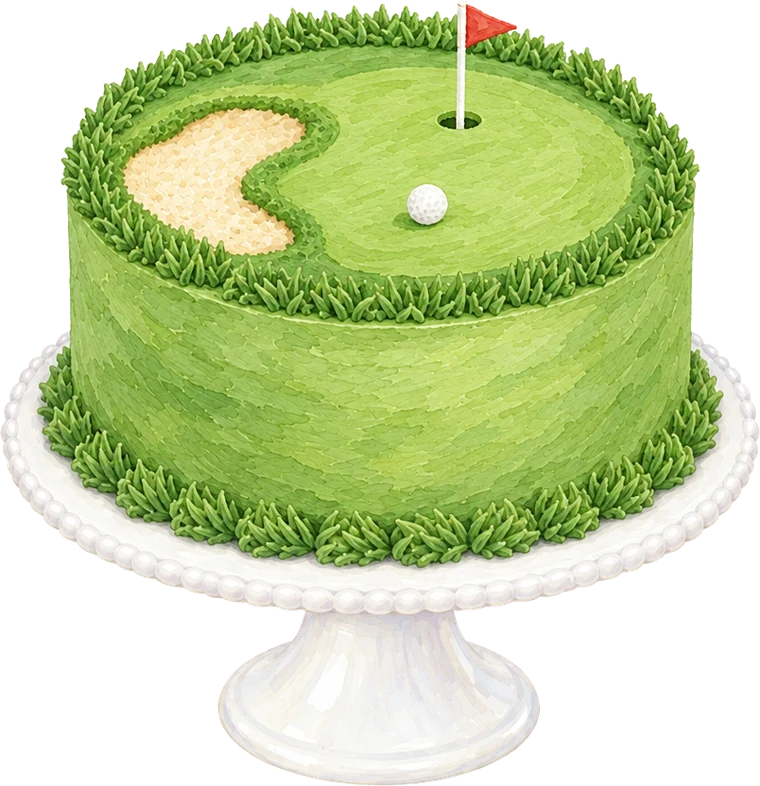
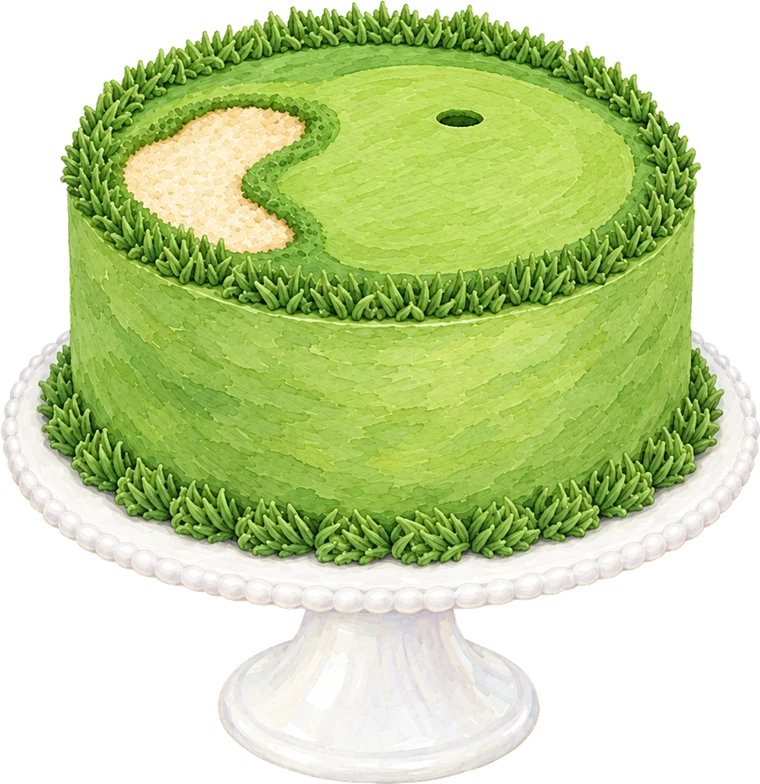
v4: clean painted cake tops, grounded smaller candles on theme cakes, share card save fallback

diff --git a/js/art7.js b/js/art7.js
@@ -1,3 +1,3 @@
 // generated: theme collections batch 2 (painted)
 export const ART7 = {"p7hallowpump":{"file":"hallowpump","ar":1.0,"h":110,"drip":"#ffd9a8","molded":1,"dir":"art7","st":[[0.497,0.099,0.009],[0.498,0.196,0.008],[0.5,0.217,0.017],[0.501,0.26,0.016],[0.501,0.34,0.111],[0.501,0.591,0.159]]},"p7gamerpixel":{"file":"gamerpixel","ar":0.556,"h":140,"drip":"#ffffff","molded":1,"dir":"art7","st":[[0.501,0.095,0.295],[0.504,0.154,0.302],[0.503,0.222,0.306],[0.505,0.265,0.28],[0.506,0.456,0.248],[0.487,0.74,0.45]]},"p7soccerball":{"file":"soccerball","ar":0.846,"h":100,"drip":"#ffffff","molded":1,"dir":"art7","st":[[0.508,0.041,0.017],[0.508,0.127,0.199],[0.506,0.161,0.224],[0.506,0.177,0.162],[0.501,0.275,0.231],[0.501,0.591,0.294]]},"p7baseball":{"file":"baseball","ar":0.865,"h":95,"drip":"#ffffff","molded":1,"dir":"art7","st":[[0.484,0.024,0.007],[0.479,0.084,0.014],[0.478,0.135,0.113],[0.488,0.173,0.072],[0.489,0.332,0.124],[0.496,0.634,0.289]]},"p7hallowwitch":{"file":"hallowwitch","ar":0.283,"h":190,"drip":"#b58ae0","molded":1,"dir":"art7","st":[[0.51,0.03,0.068],[0.507,0.077,0.112],[0.5,0.149,0.18],[0.501,0.176,0.172],[0.503,0.326,0.17],[0.528,0.474,0.248]]},"p7gamerconsole":{"file":"gamerconsole","ar":0.949,"h":120,"drip":"#e2fbf1","molded":1,"dir":"art7","st":[[0.471,0.118,0.004],[0.465,0.175,0.193],[0.464,0.201,0.18],[0.463,0.219,0.097],[0.464,0.3,0.142],[0.455,0.55,0.159]]},"p7soccerpitch":{"file":"soccerpitch","ar":0.723,"h":140,"drip":"#9fd88a","molded":1,"dir":"art7","st":[[0.604,0.045,0.205],[0.603,0.112,0.224],[0.605,0.148,0.211],[0.603,0.193,0.19],[0.606,0.347,0.175],[0.6,0.651,0.361]]},"p7baseballbat":{"file":"baseballbat","ar":0.641,"h":140,"drip":"#fffaf2","molded":1,"dir":"art7","st":[[0.491,0.01,0.239],[0.495,0.057,0.276],[0.5,0.111,0.281],[0.5,0.174,0.281],[0.501,0.335,0.265],[0.505,0.633,0.399]]},"p7gothbat":{"file":"gothbat","ar":0.821,"h":140,"drip":"#3a3340","molded":1,"dir":"art7","st":[[0.497,0.09,0.266],[0.482,0.101,0.243],[0.486,0.155,0.252],[0.482,0.216,0.25],[0.491,0.321,0.216],[0.488,0.602,0.38]]},"p7xmassnow":{"file":"xmassnow","ar":0.678,"h":140,"drip":"#ffffff","molded":1,"dir":"art7","st":[[0.493,0.013,0.17],[0.49,0.057,0.19],[0.493,0.114,0.213],[0.495,0.164,0.191],[0.493,0.323,0.19],[0.52,0.641,0.415]]},"p7mccreeper":{"file":"mccreeper","ar":0.86,"h":110,"drip":"#62b445","molded":1,"dir":"art7","st":[[0.491,0.172,0.22],[0.488,0.227,0.268],[0.49,0.254,0.25],[0.49,0.281,0.204],[0.494,0.368,0.202],[0.5,0.607,0.256]]},"p7bbhoop":{"file":"bbhoop","ar":0.998,"h":190,"drip":"#ffd9b0","molded":1,"dir":"art7","st":[[0.503,0.096,0.048],[0.496,0.136,0.032],[0.5,0.664,0.055],[0.49,0.663,0.055],[0.503,0.64,0.069],[0.507,0.64,0.067]]},"p7volleybeach":{"file":"volleybeach","ar":1.032,"h":140,"drip":"#fff6e6","molded":1,"dir":"art7","st":[[0.416,0.017,0.224],[0.417,0.05,0.212],[0.417,0.107,0.218],[0.417,0.164,0.203],[0.424,0.311,0.161],[0.434,0.666,0.398]]},"p7gothlace":{"file":"gothlace","ar":0.244,"h":190,"drip":"#1a1418","molded":1,"dir":"art7","st":[[0.562,0.185,0.068],[0.536,0.178,0.094],[0.49,0.188,0.159],[0.494,0.222,0.155],[0.493,0.353,0.145],[0.476,0.525,0.208]]},"p7xmasgnome":{"file":"xmasgnome","ar":0.644,"h":140,"drip":"#ffffff","molded":1,"dir":"art7","st":[[0.467,0.012,0.007],[0.464,0.102,0.064],[0.463,0.144,0.071],[0.463,0.2,0.119],[0.472,0.321,0.116],[0.475,0.676,0.203]]},"p7mcdiamond":{"file":"mcdiamond","ar":0.891,"h":110,"drip":"#cfd4d8","molded":1,"dir":"art7","st":[[0.483,0.025,0.15],[0.488,0.069,0.173],[0.487,0.106,0.161],[0.491,0.14,0.105],[0.489,0.27,0.208],[0.488,0.546,0.287]]},"p7bball":{"file":"bball","ar":1.0,"h":100,"drip":"#ffc48a","molded":1,"dir":"art7","st":[[0.501,0.142,0.007],[0.5,0.199,0.102],[0.501,0.223,0.134],[0.502,0.262,0.144],[0.501,0.353,0.137],[0.512,0.509,0.178]]},"p7volleyball":{"file":"volleyball","ar":0.822,"h":100,"drip":"#ffffff","molded":1,"dir":"art7","st":[[0.474,0.1,0.012],[0.476,0.183,0.092],[0.476,0.223,0.185],[0.478,0.241,0.125],[0.473,0.362,0.155],[0.483,0.654,0.294]]},"p7emoplaid":{"file":"emoplaid","ar":0.659,"h":140,"drip":"#7a1f2e","molded":1,"dir":"art7","st":[[0.501,0.157,0.301],[0.503,0.22,0.287],[0.503,0.253,0.29],[0.502,0.302,0.282],[0.502,0.455,0.256],[0.488,0.638,0.38]]},"p7cottagestraw":{"file":"cottagestraw","ar":1.0,"h":110,"drip":"#ffe6ea","molded":1,"dir":"art7","st":[[0.5,0.135,0.125],[0.502,0.182,0.119],[0.5,0.212,0.119],[0.5,0.241,0.117],[0.5,0.377,0.01],[0.488,0.6,0.157]]},"p7chessboard":{"file":"chessboard","ar":0.67,"h":140,"drip":"#fffaf2","molded":1,"dir":"art7","st":[[0.5,0.027,0.282],[0.499,0.082,0.285],[0.499,0.119,0.271],[0.499,0.185,0.271],[0.498,0.302,0.223],[0.48,0.629,0.377]]},"p7tennisracket":{"file":"tennisracket","ar":0.994,"h":140,"drip":"#e2f6ec","molded":1,"dir":"art7","st":[[0.506,0.086,0.152],[0.505,0.164,0.184],[0.506,0.215,0.175],[0.506,0.251,0.148],[0.505,0.355,0.143],[0.52,0.668,0.254]]},"p7golfflag":{"file":"golfflag","ar":0.854,"h":140,"drip":"#b8e6a0","molded":1,"dir":"art7","st":[[0.572,0.018,0.173],[0.568,0.079,0.226],[0.569,0.109,0.188],[0.57,0.194,0.108],[0.571,0.414,0.154],[0.568,0.655,0.396]]},"p7emoskull":{"file":"emoskull","ar":1.007,"h":140,"drip":"#1a1418","molded":1,"dir":"art7","st":[[0.497,0.101,0.135],[0.5,0.168,0.16],[0.501,0.206,0.154],[0.5,0.256,0.153],[0.503,0.403,0.117],[0.491,0.532,0.228]]},"p7cottagebee":{"file":"cottagebee","ar":0.75,"h":140,"drip":"#ffe28a","molded":1,"dir":"art7","st":[[0.502,0.015,0.219],[0.5,0.085,0.228],[0.5,0.134,0.2],[0.5,0.178,0.141],[0.505,0.295,0.167],[0.504,0.588,0.399]]},"p7chessking":{"file":"chessking","ar":0.95,"h":160,"drip":"#fffaf2","molded":1,"dir":"art7","st":[[0.516,0.101,0.039],[0.516,0.151,0.035],[0.516,0.204,0.099],[0.517,0.257,0.088],[0.512,0.438,0.08],[0.506,0.619,0.122]]},"p7tennisball":{"file":"tennisball","ar":0.954,"h":95,"drip":"#f2fbb0","molded":1,"dir":"art7","st":[[0.483,0.026,0.013],[0.487,0.102,0.142],[0.481,0.115,0.096],[0.479,0.164,0.011],[0.479,0.324,0.164],[0.484,0.561,0.272]]},"p7golfball":{"file":"golfball","ar":0.508,"h":120,"drip":"#ffffff","molded":1,"dir":"art7","st":[[0.508,0.011,0.015],[0.505,0.083,0.2],[0.505,0.118,0.2],[0.506,0.145,0.161],[0.51,0.226,0.066],[0.515,0.857,0.318]]}};
-export const CAKE_ART7 = {"gothic2": {"ar": 0.967, "dir": "art7"}, "emo2": {"ar": 0.966, "dir": "art7"}, "halloween3": {"ar": 0.933, "dir": "art7"}, "christmas2": {"ar": 0.957, "dir": "art7"}, "cottagecore2": {"ar": 0.963, "dir": "art7"}, "gamer2": {"ar": 0.964, "dir": "art7"}, "minecraft2": {"ar": 0.976, "dir": "art7"}, "chess": {"ar": 0.951, "dir": "art7"}, "soccer": {"ar": 0.96, "dir": "art7"}, "basketball": {"ar": 0.967, "dir": "art7"}, "tennis": {"ar": 0.968, "dir": "art7"}, "baseball": {"ar": 0.969, "dir": "art7"}, "volleyball": {"ar": 0.984, "dir": "art7"}, "golf": {"ar": 0.966, "dir": "art7"}};
+export const CAKE_ART7 = {"gothic2": {"ar": 0.967, "dir": "art7"}, "emo2": {"ar": 0.966, "dir": "art7"}, "halloween3": {"ar": 0.978, "dir": "art7"}, "christmas2": {"ar": 0.957, "dir": "art7"}, "cottagecore2": {"ar": 0.963, "dir": "art7"}, "gamer2": {"ar": 0.964, "dir": "art7"}, "minecraft2": {"ar": 0.976, "dir": "art7"}, "chess": {"ar": 0.969, "dir": "art7"}, "soccer": {"ar": 0.96, "dir": "art7"}, "basketball": {"ar": 0.967, "dir": "art7"}, "tennis": {"ar": 0.967, "dir": "art7"}, "baseball": {"ar": 0.969, "dir": "art7"}, "volleyball": {"ar": 0.984, "dir": "art7"}, "golf": {"ar": 0.969, "dir": "art7"}};

diff --git a/js/render.js b/js/render.js
@@ -1353,7 +1353,7 @@ function cakeSVG3D(design, candles = [], toppers = [], opts = {}) {
 }
 
 const CAKE_TOP = { cx: 0.5, cy: 0.165, rx: 0.33, ry: 0.1 };
-const CAKE_TOP_THEME = { cy: 0.2, rx: 0.34, ry: 0.135 };
+const CAKE_TOP_THEME = { cy: 0.215, rx: 0.36, ry: 0.13, scale: 0.5 };
 function cakeSVGPainted(design, candles = [], toppers = [], opts = {}) {
   const R = rng(opts.seed || design.id);
   const art = CAKE_ART[design.id], top = { ...CAKE_TOP, ...(art.dir === 'art6' || art.dir === 'art7' ? CAKE_TOP_THEME : {}), ...(art.top || {}) };
@@ -1376,10 +1376,10 @@ function cakeSVGPainted(design, candles = [], toppers = [], opts = {}) {
     else p = onTop(0.22, Math.PI / 2 + ((k - outer) / (n - outer)) * Math.PI * 2 + 0.6);
     const cd = opts.getDesign(c.design);
     const rem = c.melted ? Math.max(0.12, c.remaining ?? 0.5) : 1;
-    items.push({ y: p.y, s: `<ellipse cx="${p.x.toFixed(1)}" cy="${(p.y + 1).toFixed(1)}" rx="13" ry="3.6" fill="#3a2420" opacity=".14"/><g transform="translate(${p.x.toFixed(1)},${p.y.toFixed(1)}) scale(.6)"><title>${c.subject || ''} · ${c.minutes} min${c.melted ? ' (blown out early)' : ''}</title>${candleGroup(cd, c.kind, rem, { bare: true, lit: !c.melted && opts.lit !== false, blue: c.blue })}</g>` });
+    items.push({ y: p.y, s: `<ellipse cx="${(p.x + 3).toFixed(1)}" cy="${(p.y + 1.5).toFixed(1)}" rx="17" ry="5" fill="url(#cshadow)"/><ellipse cx="${p.x.toFixed(1)}" cy="${(p.y + 0.5).toFixed(1)}" rx="9" ry="2.4" fill="#2a1a14" opacity=".32"/><g transform="translate(${p.x.toFixed(1)},${(p.y + 2).toFixed(1)}) scale(${top.scale || 0.6})"><title>${c.subject || ''} · ${c.minutes} min${c.melted ? ' (blown out early)' : ''}</title>${candleGroup(cd, c.kind, rem, { bare: true, lit: !c.melted && opts.lit !== false, blue: c.blue })}</g>` });
   });
   const body = items.sort((a, b) => a.y - b.y).map((it) => it.s).join('');
-  return `<svg class="${opts.cls || 'cake-svg'}" viewBox="0 0 400 ${Y0 + H + 12}" xmlns="http://www.w3.org/2000/svg"><ellipse cx="200" cy="${Y0 + H - 4}" rx="${W * 0.3}" ry="9" fill="#3a2420" opacity=".1"/><image href="/${art.dir || 'art3'}/cake_${design.id}.webp" x="${X0}" y="${Y0}" width="${W}" height="${H}"/>${body}</svg>`;
+  return `<svg class="${opts.cls || 'cake-svg'}" viewBox="0 0 400 ${Y0 + H + 12}" xmlns="http://www.w3.org/2000/svg"><defs><radialGradient id="cshadow"><stop offset="0" stop-color="#2a1a14" stop-opacity=".38"/><stop offset="1" stop-color="#2a1a14" stop-opacity="0"/></radialGradient></defs><ellipse cx="200" cy="${Y0 + H - 4}" rx="${W * 0.3}" ry="9" fill="#3a2420" opacity=".1"/><image href="/${art.dir || 'art3'}/cake_${design.id}.webp" x="${X0}" y="${Y0}" width="${W}" height="${H}"/>${body}</svg>`;
 }
 
 export const PSTUDIO = { bodies: Object.keys(ART4.body), holders: Object.keys(ART4.holder), patterns: ART4.pattern, decors: Object.keys(ART4.decor) };

diff --git a/js/app.js b/js/app.js
@@ -487,7 +487,8 @@ async function shareCard(cakeId) {
       const file = new File([blob], 'candlelit-cake.png', { type: 'image/png' });
       const canShare = navigator.canShare && navigator.canShare({ files: [file] });
       modal(`<h2>Your cake card</h2><img class="share-img" src="${png}" alt="Share card">
-        <div class="row" style="margin-top:14px"><button class="btn" data-act="downloadCard">Download PNG</button>${canShare ? '<button class="btn rose" data-act="nativeShare">Share…</button>' : ''}</div>`);
+        <div class="row" style="margin-top:14px"><button class="btn" data-act="downloadCard">Download PNG</button><a class="btn ghost" href="${png}" target="_blank" rel="noopener" download="candlelit-cake.png">Open image</a>${canShare ? '<button class="btn rose" data-act="nativeShare">Share…</button>' : ''}</div>
+        <p class="muted small" style="margin-top:8px">If the download doesn't start, right-click the image (or press and hold on a phone) and choose <b>Save image</b>.</p>`);
       ui.shareFile = file;
       ui.shareBlob = blob;
     }, 'image/png');
